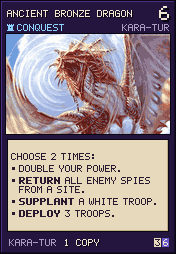
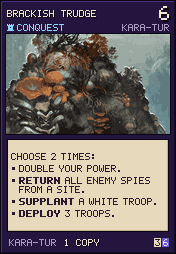
Stage NE-35: Kara-Tur has no dragons left — Ancient Bronze Dragon -> Brackish Trudge, Ancient Silver Dragon -> Gulthias Blight (owner's picks), off-deck 49814 -> Treefolk; Biha Babir and Bodytaker Plant swapped (owner); cards and minis redrawn

diff --git a/Claude outputs/new_era_ionia.md b/Claude outputs/new_era_ionia.md
@@ -7,7 +7,7 @@
 - Эффекты: `engine/godot/core/cards/ionia_cards.gd`, тест `test_karatur_deck`.
 - Арты D&D Beyond (все с фоном): `cards/ionia/`. Фон партии — сакура (`UnderdarkBg.DECK_COLOURS["ionia"]`). PROTOCOL 32.
 - Название KARA-TUR — восточный край Forgotten Realms (аналог Ионии). Сначала колода была «драконья» (13 драконов из 23).
-- **NE-34 (2026-11-01, владелец: «в игре слишком много драконов»):** 11 драконов заменены существами D&D Beyond со сценой, которых выбрал владелец (эффекты и id не менялись): Biha Babir, Thessalheart Construct, Murder Comet, Nafas, Elemental Cataclysm, Bodytaker Podling, Gas Spore Fungus, Brackish Trudge, Bodytaker Plant, Tempest Hart, Khargra. Драконами остались Ancient Bronze и Ancient Silver. Старые арты драконов удалены из `cards/ionia/`.
+- **NE-34 (2026-11-01, владелец: «в игре слишком много драконов»):** все 13 драконов заменены существами D&D Beyond со сценой, которых выбрал владелец (эффекты и id не менялись): Biha Babir, Thessalheart Construct, Murder Comet, Nafas, Elemental Cataclysm, Bodytaker Podling, Gas Spore Fungus, Bodytaker Plant, Tempest Hart, Khargra, Brackish Trudge (бывший Ancient Bronze), Gulthias Blight (бывший Ancient Silver); 49814 (вне колоды) — Treefolk. Драконов в колоде нет. Старые арты драконов удалены из `cards/ionia/`.
 
 ## Таблица
 
@@ -27,23 +27,23 @@
 | 49811 | Tarrasque | Lee Sin | 6 | Malice (Valor) | 3/6 | 1 |
 | 49812 | Bodytaker Podling | Navori Highwayman | 2 | Conquest | 1/3 | 4 |
 | 49813 | Gas Spore Fungus | Greenglade Duo | 2 | Conquest | 1/3 | 3 |
-| 49814 | Brackish Trudge | Swole Squirrel | 3 | Malice (Valor) | 1/3 | 0 (убран, NE-25) |
-| 49815 | Ancient Bronze Dragon | Irelia | 6 | Conquest | 3/6 | 1 |
+| 49814 | Treefolk | Swole Squirrel | 3 | Malice (Valor) | 1/3 | 0 (убран, NE-25) |
+| 49815 | Brackish Trudge | Irelia | 6 | Conquest | 3/6 | 1 |
 | 49816 | Bodytaker Plant | Pathless Ancient | 3 | Malice (Valor) | 1/3 | 3 |
 | 49817 | Merrow | Kinkou Lifeblade | 3 | Malice (Valor) | 1/3 | 3 |
 | 49818 | Tempest Hart | The Schemer | 4 | Guile | 2/4 | 2 |
 | 49819 | Shrieker Fungus | Shadowblade Fanatic | 4 | Guile | 2/4 | 3 |
 | 49820 | Khargra | Ahri | 6 | Guile | 3/7 | 1 |
-| 49821 | Ancient Silver Dragon | Karma | 6 | Ambition | 3/7 | 1 |
+| 49821 | Gulthias Blight | Karma | 6 | Ambition | 3/7 | 1 |
 | 49822 | Kraken | Master Yi | 6 | Malice (Valor) | 3/6 | 1 |
 
-Итого 30 обычных + 10 чемпионов = 40. NE-24 (2026-10-17): владелец убрал Thessalheart Construct, Sprite, Violet Fungus, Mage и Brackish Trudge по 3. NE-25: Brackish Trudge заменён на Sprite (3 копии). Убранные остались в cards.json. PROTOCOL 33.
+Итого 30 обычных + 10 чемпионов = 40. NE-24 (2026-10-17): владелец убрал Thessalheart Construct, Sprite, Violet Fungus, Mage и Treefolk по 3. NE-25: Treefolk заменён на Sprite (3 копии). Убранные остались в cards.json. PROTOCOL 33.
 
 ## Retain
 Правило мода: карта остаётся в руке после конца хода; новая рука — 5 карт без удержанных, потом удержанные добавляются.
 - Карту со словом **Retain** в свой ход можно не сыграть, а удержать: при щелчке по ней вопрос полосой сверху «Play this card now / Retain it». Удержанная уходит из руки в отдельную стопку (`Deck.retained`), в ряду руки она видна справа с подписью RETAINED. В конце хода после добора до 5 она возвращается в руку.
 - Бонус «Retain: …» срабатывает сразу при удержании (иначе +1 Power у Elemental Cataclysm сгорал бы в конце хода).
-- Любое удержание — своё, через Ancient Silver Dragon (ещё 2 карты), Tempest Hart (сыгранная карта), верхняя карта колоды (Tempest Hart, Shrieker Fungus) — считается «Retain a card»: бонус карты и «whenever you Retain» (Bodytaker Plant, Merfolk Skirmisher, Gas Spore Fungus) срабатывают.
+- Любое удержание — своё, через Gulthias Blight (ещё 2 карты), Tempest Hart (сыгранная карта), верхняя карта колоды (Tempest Hart, Shrieker Fungus) — считается «Retain a card»: бонус карты и «whenever you Retain» (Bodytaker Plant, Merfolk Skirmisher, Gas Spore Fungus) срабатывают.
 - Соперники видят только число удержанных карт; верхняя карта колоды в журнал не пишется.
 
 ## Толкования (можно поменять)
@@ -51,12 +51,12 @@
 - **Shen (Oni):** реакция из руки только на эффекты **карт** соперника (не на базовые действия): убийство, вытеснение, возврат, перемещение войска или шпиона. Ответ — сбросить Oni, отменить удар, взять 2 карты. Порядок вопросов: Shield Guardian, Ankheg, Oni.
 - **Zed (Murder Comet):** «Play a copy for each card you Retain this turn» — повторов столько, сколько карт удержано в этот ход **до** розыгрыша (не больше 2).
 - **Airis / Kinkou Lifeblade (Sprite, Merrow):** карта становится названным Аспектом (для Focus, Hwei, Copper Wyrmling) и даёт +1 за каждую карту этого Аспекта в этот ход, включая себя.
-- **Swole Squirrel (Brackish Trudge):** удержать её саму можно, только сбросив другую карту из руки (Frostbite срабатывает); жетоны Acorn копятся до конца партии. Если её удержали другим путём — жетон даётся без сброса.
+- **Swole Squirrel (Treefolk):** удержать её саму можно, только сбросив другую карту из руки (Frostbite срабатывает); жетоны Acorn копятся до конца партии. Если её удержали другим путём — жетон даётся без сброса.
 - **Lee Sin (Tarrasque):** «you may treat other players' troops as neutral» — до конца хода все чужие войска считаются белыми (флаг Siege `all_white`).
-- **Irelia (Ancient Bronze Dragon):** «Return all spies from a hex» — все шпионы соперников в одной локации с Присутствием. «Double your Power» в паре выполняется вторым.
+- **Irelia (Brackish Trudge):** «Return all spies from a hex» — все шпионы соперников в одной локации с Присутствием. «Double your Power» в паре выполняется вторым.
 - **The Witness (Mage):** следующая сыгранная карта ценой ≤ 5 срабатывает ещё раз (как Echo у Ravenloft).
 - **Ahri (Khargra):** скидка 1 на найм до конца хода (и рынок, и стопки); второй вариант — после каждого найма (покупка, бесплатный найм) вопрос «убить войско» с пропуском.
-- **Karma (Ancient Silver Dragon):** в конце хода — по желанию продвинуть сыгранную карту (можно и её саму) и бесплатно нанять карту рынка ценой до «цена продвинутой + 2».
+- **Karma (Gulthias Blight):** в конце хода — по желанию продвинуть сыгранную карту (можно и её саму) и бесплатно нанять карту рынка ценой до «цена продвинутой + 2».
 - **Master Yi (Kraken):** «+1 Power whenever you Assassinate or Supplant» — с момента розыгрыша до конца хода, любым путём (карта или базовое действие).
 - **Navori Conspirator (Violet Fungus):** «more than 5 cards» — у соседа слева или справа в руке 6+ карт (удержанные карты это делают возможным).
 - **Blossoming Blade (Dryad):** Retain — посмотреть руку соперника (вдвоём — сразу, иначе выбор игрока).

diff --git a/hs_unity/CARD_MAP.md b/hs_unity/CARD_MAP.md
@@ -251,9 +251,9 @@ S'theno, Neptulon TID, Neeru, Al'Akir NEW1 заменены свежими).
 | Nafas (49806) | Titanographer Osk (TLC_452t35) | `TLCFX_Titangrapher_CustomSummon.prefab` | СДЕЛАНО (HsFx-77; владелец выбрал в HsBrowser 2026-10-27) |
 | Elemental Cataclysm (49807) | Endtime Murozond (END_037) | `ENDFX_EndtimeMurozond_CustomSummon.prefab` | СДЕЛАНО (HsFx-77; владелец выбрал в HsBrowser 2026-10-27) |
 | Tarrasque (49811) | Maruut Stonebinder (DEEP_037) | `DEEPFX_MaruutStonebinder_CustomSummon.prefab` | СДЕЛАНО (HsFx-79; владелец выбрал в HsBrowser 2026-10-27) |
-| Ancient Bronze Dragon (49815) | Nozdormu, Bronze Aspect (CATA_473) | `CATAFX_NozdormuBronzeAspect_CustomSummon.prefab` | СДЕЛАНО (HsFx-77; владелец выбрал в HsBrowser 2026-10-27) |
+| Brackish Trudge (49815) | Nozdormu, Bronze Aspect (CATA_473) | `CATAFX_NozdormuBronzeAspect_CustomSummon.prefab` | СДЕЛАНО (HsFx-77; владелец выбрал в HsBrowser 2026-10-27) |
 | Khargra (49820) | Elise, Badlands Savior (WW_392) | `WWFX_EliseBadlandsSavior_CustomSummon.prefab` | СДЕЛАНО (HsFx-77; владелец выбрал в HsBrowser 2026-10-27) |
-| Ancient Silver Dragon (49821) | Ultraxion (CATA_497) | `CATAFX_Ultraxion_CustomSummon.prefab` | СДЕЛАНО (HsFx-77; владелец выбрал в HsBrowser 2026-10-27) |
+| Gulthias Blight (49821) | Ultraxion (CATA_497) | `CATAFX_Ultraxion_CustomSummon.prefab` | СДЕЛАНО (HsFx-77; владелец выбрал в HsBrowser 2026-10-27) |
 | Kraken (49822) | Ozumat (TID_711) | `TIDFX_Ozumat_CustomSummon.prefab` | морское чудище |
 
 ### bandle
